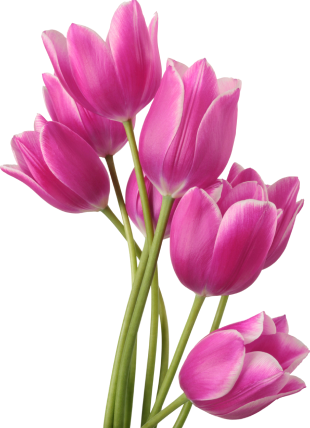
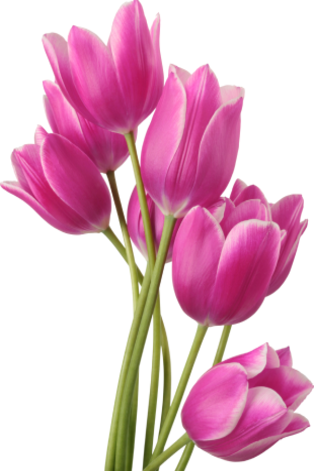
fixed flower in season

diff --git a/index.css b/index.css
@@ -48,3 +48,70 @@ header {
 
 
 /* Main Section */
+
+/* Flower in season section */
+.section-primary {
+    margin-top: 180px;
+    text-align: center;
+}
+
+.section-primary>h1 {
+    color: #272727;
+    text-align: center;
+    font-family: Lato;
+    font-size: 40px;
+    font-style: normal;
+    font-weight: 800;
+    line-height: normal;
+}
+
+.section-primary>p {
+    color: rgba(39, 39, 39, 0.60);
+    text-align: center;
+    font-family: Lato;
+    font-size: 18px;
+    font-style: normal;
+    font-weight: 400;
+    line-height: 30px;
+
+}
+
+.section-secondary {
+    display: flex;
+    align-items: center;
+    justify-content: center;
+
+
+}
+
+.flower1 {
+    background-color: #477D1126;
+    text-align: center;
+    margin-right: 24px;
+    padding: 0 50px;
+    padding-top: 70px;
+    border-top-right-radius: 50%;
+    border-top-left-radius: 50%;
+
+}
+
+.flower2 {
+    background-color: #A7216226;
+    text-align: center;
+    margin-right: 24px;
+    padding: 0 50px;
+    padding-top: 70px;
+    border-top-right-radius: 50%;
+    border-top-left-radius: 50%;
+
+}
+
+.flower3 {
+    background-color: #0597A026;
+    text-align: center;
+    padding: 0 50px;
+    padding-top: 70px;
+    border-top-right-radius: 50%;
+    border-top-left-radius: 50%;
+
+}

diff --git a/index.html b/index.html
@@ -29,6 +29,26 @@
         </div>
     </header>
     <main>
+        <!-- Flowers in Season -->
+
+        <section>
+            <div class="section-primary">
+                <h1>Flowers in Season</h1>
+                <p>It is a well-known truth that a reader will be distracted by a page's legible content when looking at
+                    its layout.</p>
+            </div>
+            <div class="section-secondary">
+                <div class="flower1">
+                    <img src="./Flower Asset/pngwing 7.png" alt="">
+                </div>
+                <div class="flower2">
+                    <img src="./Flower Asset/pngwing 5.png" alt="">
+                </div>
+                <div class="flower3">
+                    <img src="./Flower Asset/pngwing 6.png" alt="">
+                </div>
+            </div>
+        </section>
 
     </main>
     <footer>
